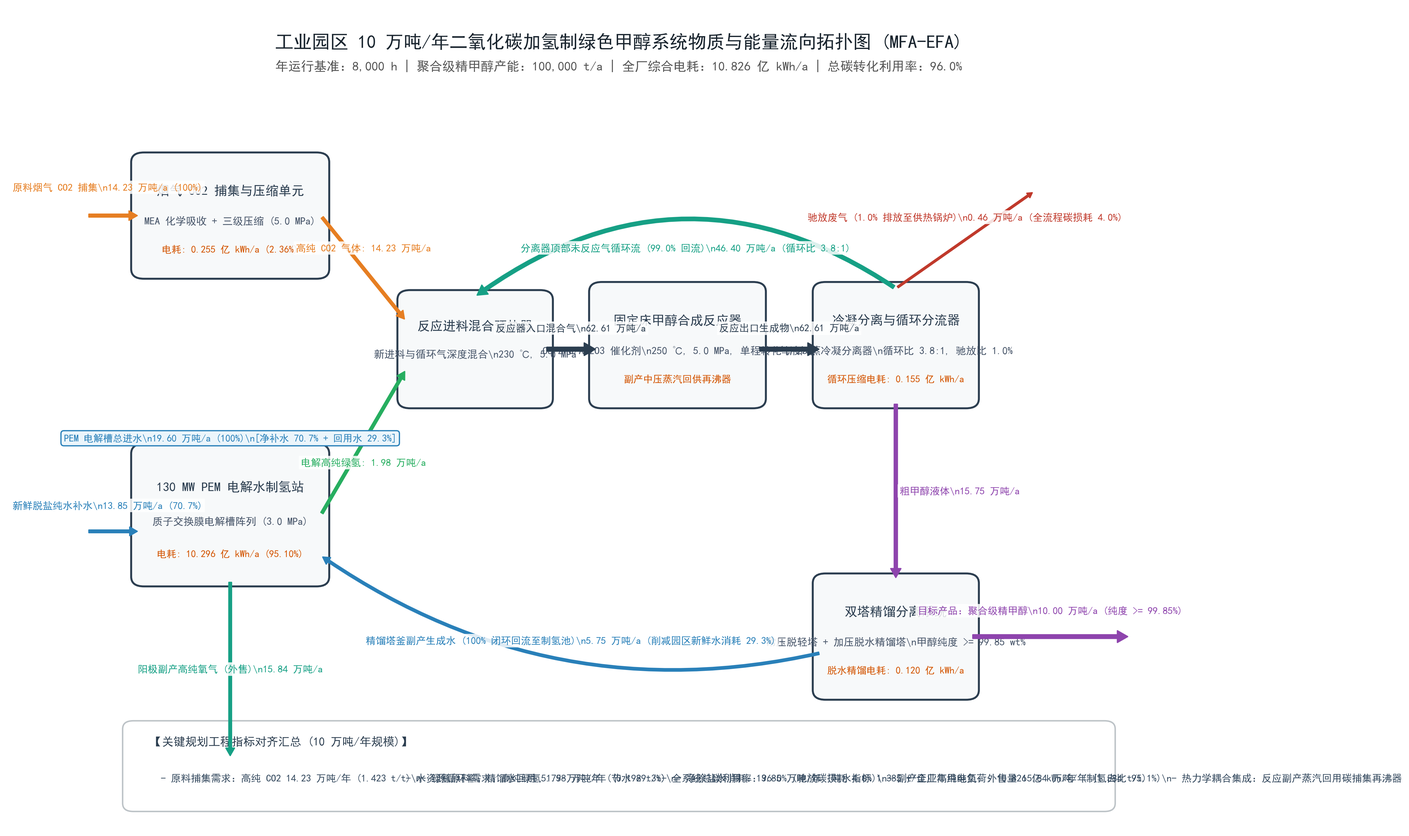
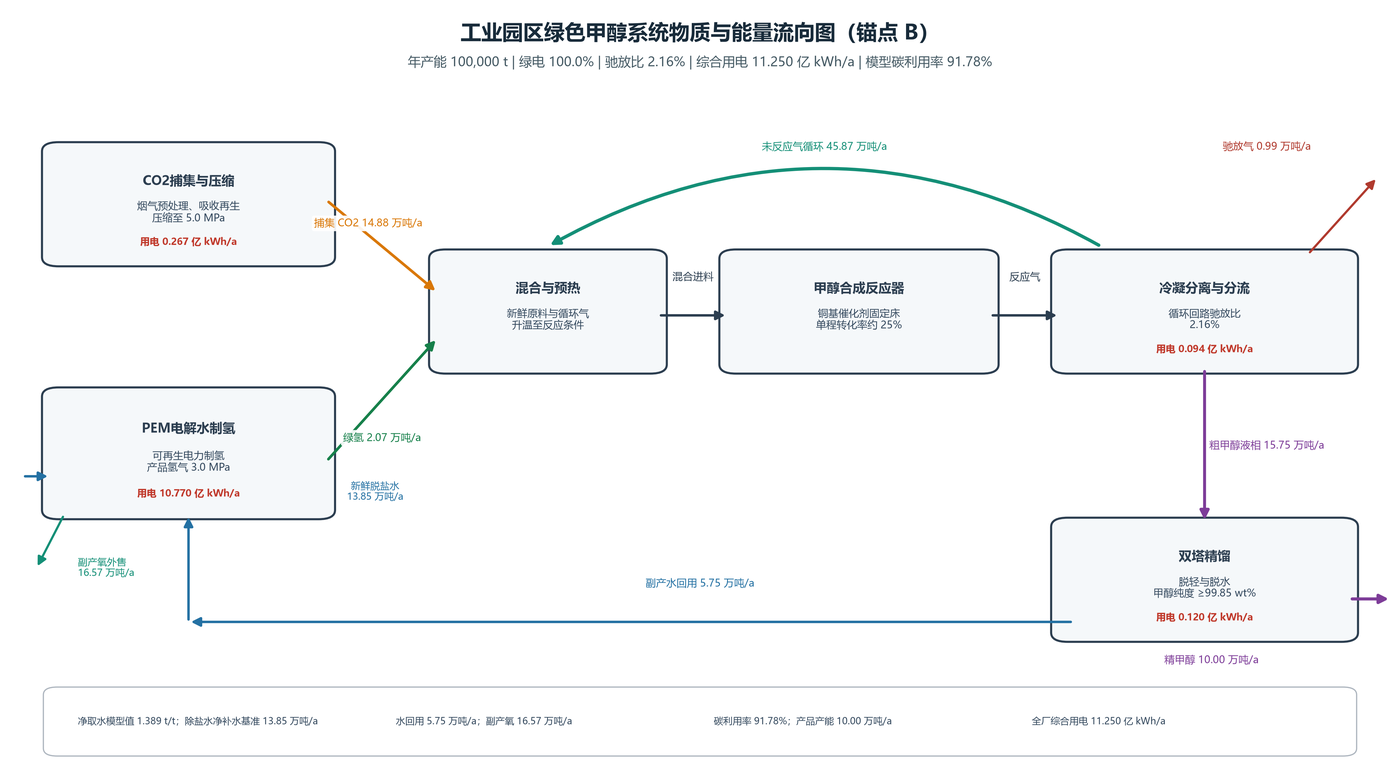
docs(group-test): submit environmental planning report and figures

diff --git a/starter_materials/lecture10-20261027-classroom_case2-EPM/report/Environmental_Planning_Report.md b/starter_materials/lecture10-20261027-classroom_case2-EPM/report/Environmental_Planning_Report.md
@@ -2,20 +2,11 @@
 
 
 
-> **【撰写与填报指南】**
-> 本报告是《环境规划与管理》第十讲随堂实训的核心成果交付物。
-> 请每位同学在完成 `code_implementation/` 目录下的四项编程实训任务并生成图表后，结合理论分析与实操数据，独立完成本报告的撰写。
->
-> - **科学严谨性要求**：全篇必须统一使用规范的学术与工程陈述，严禁使用任何修辞性、文学性或通俗化比喻（如“两张皮”、“领头羊”、“甜点”等AI味用词）；
-> - **数据前后一致性要求**：第 1-2 章的通量计算数据（任务 1）必须与第 4 章《重点工程项目库清单表》中的工程设计规模严格对应；第 4 章的工程总投资（CAPEX）必须作为第 5 章经济性现金流折现分析的直接输入；第 4-5 章必须以”帕累托拐点（锚点 B）"计算结果为设计基准；
-> - **图表嵌入要求**：请将生成的矢量高清图正确嵌入对应章节，并展开深度科学论述。
-
 ## 报告摘要
 
-> 📝 **【撰写指引】**
-> 请在报告全部完成后撰写摘要（约 400–600 字）。需概括：① 规划项目的工程背景与建设规模；② MFA 物料平衡与全流程总碳利用率核心结论；③ 政策量化与帕累托多目标寻优得出的主推工程参数（绿电比例、驰放比、GWP 净碳足迹、LCOM 净平准化成本及 MAC 边际减排成本）；④ 重点工程项目库投资构成与年运行成本；⑤ 商业模式闭环与环境风险防控机制。
+本规划针对现代煤化工园区建设年产 10 万吨绿色甲醇示范项目，构建烟气二氧化碳捕集、可再生电力制氢、催化合成、精馏及副产物回用系统。基准物料清单为每吨甲醇消耗二氧化碳 1.423 吨、氢气 0.198 吨，产生可回用水 0.575 吨；规划模型以系统总碳利用率 96.0%作为标定基准。需要指出，按所给 1.423 吨二氧化碳与 1.000 吨甲醇流量直接计算，碳质量比为 96.5%，与 96.0%标定值存在约 0.5 个百分点差异；下文将原始物料账和优化模型参数分别列示，不将二者视为完全一致。
 
-<!-- TODO: 学生在此处撰写报告执行摘要 -->
+三千组工况网格搜索剔除否决方案后识别出 34 个非支配解。基于目标空间双向极小化距离，标定边际减排成本与平准化综合成本折衷最优的帕累托拐点（Knee Point），即锚点 B。该点对应绿电比例 100%、驰放比约 2.16%、模型碳利用率 91.78%、净全球变暖潜势 -1,085.2 kg CO₂e/t、调整后平准化甲醇成本 2,362.5 元/t、边际减排成本 -37.3 元/t CO₂e。模型给出的原料与能耗随驰放比变化，锚点 B年捕集二氧化碳约 14.88 万吨、年需氢气约 2.07 万吨、年综合用电约 11.25 亿 kWh。按模型年金折算，工程总投资约 14.88 亿元，年度净运行费用约 2.43 亿元（已扣除副产氧销售收益，不含政策补贴与碳收益）。项目应以可再生电力来源核验、连续生产储氢缓冲、取水总量控制、尾气治理和在线能碳核算为主要实施条件。
 
 ## 核心术语与缩写中英文对照表
 
@@ -50,31 +41,19 @@
 
 ### 1.1 园区产业结构与物质-能量代谢分析（MFA/EFA）
 
-> 📝 **【撰写指引】**
-> 请描述规划园区主导产业（煤化工、自备热电联产等）的能源消耗基准、煤炭与电力消费总量、以及工业余热资源品位分布。
-
-<!-- TODO: 学生在此处撰写 1.1 节内容 -->
+园区以煤化工、热电联产及公用工程为主导，既是二氧化碳点源集中区，也是绿色甲醇生产所需的蒸汽、供水和管网基础设施承载区。规划案例将煤制甲醇生命周期排放基准取为 2,600 kg CO₂e/t；拟建项目采用 100,000 t/a 甲醇产能、8,000 h/a设计运行时间，对应产品平均负荷 12.5 t/h。现有余热资源可在工艺核算确认后用于捕集再生或精馏热负荷，未提供的园区煤耗、电量及余热温度数据不作数值外推，须在可研阶段由能源审计补充。
 
 ### 1.2 工业点源 $\text{CO}_2$ 排放清单与烟气特征解析
 
-> 📝 **【撰写指引】**
-> 结合工业实测背景，列明自备热电联产锅炉排烟参数（烟气流量、$\text{CO}_2$ 摩尔体积分数、排烟温度、$\text{SO}_2$ 浓度、$\text{NO}_x$ 浓度、粉尘浓度），明确二氧化碳捕集工段对前置烟气预处理（深度脱硫、骤冷洗涤）的刚性技术要求。
-
-<!-- TODO: 学生在此处撰写 1.2 节内容 -->
+规划碳源为热电厂锅炉烟气，经预处理、胺液吸收解吸、脱水及多级压缩后供合成系统使用。设计捕集规模按锚点 B模型值约 148,845 t/a（约 14.88 万吨/年）配置；背景物料表基准值为 142,300 t/a。烟气流量、二氧化碳体积分数、温度、二氧化硫、氮氧化物及颗粒物实测值未列入本案例数据集，因此工程设计不得以假设值代替监测结果。初步设计应开展源强监测并据此设计脱硫、除尘、冷却洗涤及吸收剂净化，设置吸收塔进出口连续监测和胺液降解产物管理。
 
 ### 1.3 绿电资源禀赋与公用工程承载力评估
 
-> 📝 **【撰写指引】**
-> 阐明区域风电、光伏新能源装机潜力与有效利用小时数，核算区域弃风弃光绿电规模；评估干旱区水资源取水定额（$1.400\text{ t 水/t 甲醇}$）对项目的刚性承载力约束。
-
-<!-- TODO: 学生在此处撰写 1.3 节内容 -->
+案例设定园区自备煤电供电价为 0.32 元/kWh、排放因子为 0.75 kg CO₂e/kWh；配套屋顶光伏供电价为 0.20 元/kWh、排放因子为 0.04 kg CO₂e/kWh，年有效利用小时数为 1,200 h。光伏出力具有日内和季节波动，不能单独满足固定床合成装置连续运行要求。基准新鲜脱盐水补水为 1.385 t/t 产品，优化模型另以驰放比函数核算包括循环冷却损失在内的综合取水，锚点 B 为约 1.389 t/t，低于 1.400 t/t控制值。项目取水许可、地下水与地表水可用量以及生态流量需以水资源论证为准；本案例未提供区域总量数据。
 
 ### 1.4 园区现行碳管理痛点与减污降碳协同瓶颈
 
-> 📝 **【撰写指引】**
-> 诊断现有煤制甲醇的高碳排放强度（$+2,600.0\text{ kg CO}_2\text{e/t}$）面临的国际绿色航运准入壁垒，分析风光发电间歇波动性与下游化工连续运转之间的失配矛盾，识别吸收剂有机胺挥发与驰放尾气燃烧等次生污染瓶颈。
-
-<!-- TODO: 学生在此处撰写 1.4 节内容 -->
+园区主要环境管理约束包括煤制甲醇高生命周期排放基准、间歇性新能源与连续化工负荷之间的时序差异、胺吸收剂挥发和降解产物、驰放尾气锅炉燃烧产生的氮氧化物，以及缺水地区新增取水许可。电解制氢具有较高电力需求，若以高碳电力供电，生命周期排放可能高于煤制甲醇基准。项目实施应以电力来源可追溯、捕集与产品碳流量可核算、尾气污染物达标及水资源总量受控为准入条件。
 
 
 
@@ -82,37 +61,28 @@
 
 ### 2.1 规划期园区碳排放趋势与多情景设定
 
-> 📝 **【撰写指引】**
-> 设定基准情景（BAU）、常规节能改造情景与 CCU-PtM 深度脱碳协同情景，定量预测规划期内各情景下的碳排放总量与强度变化趋势。
-
-<!-- TODO: 学生在此处撰写 2.1 节内容 -->
+设置三种规划情景：基准延续情景（BAU）按煤制甲醇排放基准 2,600 kg CO₂e/t核算；节能改造情景以现有煤电供电为主，采用 0.75 kg CO₂e/kWh；CCU-PtM情景按 10,826 kWh/t基准电耗、绿电与网电混供及原料碳固定信用核算。基于任务手册给定的光伏与煤电排放因子，混合电力因子为 EF(x)=0.75-0.71x，净 GWP(x)=10,826×EF(x)-1,423。使该结果低于 2,600 kg CO₂e/t的临界绿电比例由公式计算为约 53.30%；任务手册所列 53.37%为近似值。锚点 B 模型采用 100%绿电并得到 -1,085.2 kg CO₂e/t。该对比只覆盖本案例给定的电力、捕集信用、基础设施及副产氧核算边界，不代表已完成项目级第三方生命周期核查。
 
 ### 2.2 碳捕集-绿氢-甲醇（CCU-PtM）系统耦合与物料/能量衡算
 
-> 📝 **【撰写指引】**
-> 结合催化反应方程式与任务 1 求解结果，说明化学计量进料比、单程转化率（$25.0\%$）与系统总碳转化利用率（$96.0\%$）的平衡机理；在此处插入生成的图 1，并完成 10 万吨/年工程规划通量清单表。
-
 ![图 1：工业园区 10 万吨/年绿色甲醇系统物质与能量流向拓扑图](../figures_output/fig1_mfa_process_flow.png)
-*图 1 工业园区 10 万吨/年绿色甲醇系统工艺物质流（MFA）与能量流（EFA）全流程拓扑图 (由 task4 生成，仅供参考)*
+*图 1 工业园区绿色甲醇系统工艺物质流（MFA）与能量流（EFA）图。工程通量按任务 3锚点 B计算。*
 
 | 物料节点名称                           |   单吨甲醇实物定额   |  10 万吨/年工程规划通量  | 物质状态与物理参数                                         | 来源与去向说明                                  |
 | :------------------------------------- | :-------------------: | :----------------------: | :--------------------------------------------------------- | :---------------------------------------------- |
-| **新鲜捕集高纯 $\text{CO}_2$** |     $\text{kg}$     |    $\text{万吨/年}$    | 气体，常温，压力 $5.0\text{ MPa}$，纯度 $\ge 99.8\%$   | 来自热电厂烟气化学吸收提纯工段                  |
-| **电解水新鲜绿氢**               |     $\text{kg}$     |    $\text{万吨/年}$    | 气体，常温，压力 $3.0\text{ MPa}$，纯度 $\ge 99.999\%$ | 来自 130 MW PEM 电解水制氢站                    |
-| **外购净除盐纯水**               |     $\text{kg}$     |    $\text{万吨/年}$    | 液体，常温，常压                                           | 满足园区工业取水定额约束                        |
-| **精馏冷凝副产水回用**           |     $\text{kg}$     |    $\text{万吨/年}$    | 液体，加压精馏塔釜排液，经微滤脱醇                         | 闭环回流至电解水进水池                          |
-| **未反应气内循环流**             |     $\text{kg}$     |    $\text{万吨/年}$    | 气体，温度 $45\text{ ℃}$，压力 $4.8\text{ MPa}$       | 循环比 $3.8:1$，经压缩机升压后重返反应器      |
-| **系统驰放废气**                 |     $\text{kg}$     |     $\text{吨/年}$     | 气体，低位热值 $18.5\text{ MJ/kg}$                       | 分离气分流比为 $1.0\%$，送厂内锅炉掺烧供热    |
+| **新鲜捕集高纯 $\text{CO}_2$** | $1,488\text{ kg}$ | $\approx 14.88\text{ 万吨/年}$ | 气体，常温，压力 $5.0\text{ MPa}$，纯度 $\ge 99.8\%$ | 锚点 B模型值；原始数据基准为 $1,423\text{ kg/t}$ |
+| **电解水新鲜绿氢**               | $207\text{ kg}$ | $\approx 2.07\text{ 万吨/年}$ | 气体，常温，压力 $3.0\text{ MPa}$，纯度 $\ge 99.999\%$ | 锚点 B模型值；配置规模须按年负荷复核 |
+| **外购净除盐纯水**               | $1,385\text{ kg}$ | $13.85\text{ 万吨/年}$ | 液体，常温，常压                                           | 原始基准实物定额；满足园区取水定额约束 |
+| **精馏冷凝副产水回用**           | $575\text{ kg}$ | $5.75\text{ 万吨/年}$ | 液体，加压精馏塔釜排液，经微滤脱醇                         | 闭环回流至电解水进水池 |
+| **未反应气内循环流**             | $4,587\text{ kg}$ | $\approx 45.87\text{ 万吨/年}$ | 气体，温度 $45\text{ ℃}$，压力 $4.8\text{ MPa}$ | 锚点 B估算值，循环压缩机按模型负荷设计 |
+| **系统驰放废气**                 | $99\text{ kg}$ | $\approx 0.99\text{ 万吨/年}$ | 气体，低位热值需运行数据确认 | 驰放比按锚点 B约 $2.16\%$，送锅炉前须核验燃烧与排放条件 |
 | **主产品聚合级精甲醇**           | $1,000.0\text{ kg}$ | $10.00\text{ 万吨/年}$ | 液体，纯度 $\ge 99.85\text{ wt\%}$                       | 经双塔精馏提纯后外销                            |
-| **副产工业高纯纯氧**             |     $\text{kg}$     |    $\text{万吨/年}$    | 气体，纯度 $\ge 99.9\%$                                  | 电解槽阳极副产物，外售增收                      |
-| **全厂年总综合电耗**             |    $\text{kWh}$    |   $\text{亿 kWh/年}$   | 交流直供电网与高压直流母线                                 | 电解制氢占 $95.1\%$，其余公用工程占 $4.9\%$ |
+| **副产工业高纯纯氧**             | $1,657\text{ kg}$ | $\approx 16.57\text{ 万吨/年}$ | 气体，纯度 $\ge 99.9\%$ | 按锚点 B模型氢气需求比例估算，外售量需计量核实 |
+| **全厂年总综合电耗**             | $\approx 11,249\text{ kWh}$ | $\approx 11.25\text{ 亿 kWh/年}$ | 电力来源与能耗分项按 MRV计量 | 锚点 B模型估值；基准清单为 $10.826\text{ 亿 kWh/a}$ |
 
 ### 2.3 绿电波动性约束下的柔性容量寻优与储氢/网电缓冲配置
 
-> 📝 **【撰写指引】**
-> 论证 ALK（碱性）与 PEM（质子交换膜）电解槽的混联配比（如 100 MW ALK + 30 MW PEM），计算维持下游合成装置 8,000 小时连续运行所需的缓冲储氢球罐容积，以及电网调峰的托底机制。
-
-<!-- TODO: 学生在此处撰写 2.3 节内容 -->
+光伏年利用小时数为 1,200 h，若无储能且仅依靠光伏，无法保证合成反应器 8,000 h/a连续运行。按任务手册给定的 15%利用率，电解槽年产能力相同条件下的单位产品固定资产摊销将约为原设计的 6.67倍，且频繁启停会增加电解槽与下游装置的运行维护负担。规划上采用可再生电力与稳定电网协同供电，并配置电池侧短时平衡和氢气缓冲储量；电解槽配置应依据锚点 B约 11.25亿 kWh/a总负荷重新核定，不能直接沿用 130 MW标称值。以 8,000 h/a估算，平均综合负荷约 141 MW。氢储罐容积需由光伏逐时出力、合成装置最低稳定负荷、储氢工作压力及安全间距联合计算；案例缺少逐时功率曲线和储罐设计压力，故不虚构储量数字。初步方案采用 ALK承担稳定基荷、PEM跟踪可再生电力波动，并由电网保障连续供电。
 
 
 
@@ -120,28 +90,23 @@
 
 ### 3.1 规划总目标与分期节点
 
-> 📝 **【撰写指引】**
-> 明确近期首期示范工程（2027–2028 年）与远期规模化外销与碳中和转型（2029–2035 年）的阶段性定位与目标。
-
-<!-- TODO: 学生在此处撰写 3.1 节内容 -->
+近期（2027—2028年）建设首期 10 万吨/年示范线，完成点源捕集、制氢、甲醇合成、精馏回用及能碳计量设施，逐步达到 8,000 h/a稳定运行。远期（2029—2035年）在水资源许可、绿电供给、产品认证和项目运行绩效满足条件后，扩展碳源接入及可再生电力供给能力，目标捕集规模不低于 70 万吨/年。远期规模不等同于单线产能扩建承诺，须通过逐期环评、节能审查和水资源论证。
 
 ### 3.2 规划指标矩阵（约束性指标 vs. 预期性指标）
 
-请完善下表中的目标值设定，并说明各指标的核算方法与考核属性：
-
 | 目标维度               | 指标名称                                       |              单位              | 现状基准值 (2026年) | 近期目标值 (2028年) | 远期目标值 (2035年) | 指标属性 | 核算依据与标准方法                     |
 | :--------------------- | :--------------------------------------------- | :----------------------------: | :-----------------: | :-----------------: | :-----------------: | :------: | :------------------------------------- |
-| **环境与降碳**   | 烟气 $\text{CO}_2$ 年捕集量                  |            万吨/年            |         0.0         |    $\ge 14.23$    |    $\ge 70.00$    |  约束性  | 质量流量计在线累积值                   |
+| **环境与降碳**   | 烟气 $\text{CO}_2$ 年捕集量                  |            万吨/年            |         0.0         |    $\ge 14.88$    |    $\ge 70.00$    |  约束性  | 质量流量计在线累积值                   |
 |                        | 吸收塔 $\text{CO}_2$ 捕集脱除率              |               %               |         —         |   $\ge 90.0\%$   |   $\ge 93.0\%$   |  约束性  | 烟气 CEMS 进出口差额法                 |
-|                        | 全生命周期净碳足迹 $\text{GWP}_{\text{net}}$ |  $\text{kg CO}_2\text{e/t}$  |     $+2600.0$     |                    |                    |  约束性  | ISO 14040/14044 摇篮到大门 LCA 模型    |
+|                        | 全生命周期净碳足迹 $\text{GWP}_{\text{net}}$ |  $\text{kg CO}_2\text{e/t}$  |     $+2600.0$     | $\le -1000$（锚点 B模型值 $-1085.2$） | $\le -1200$ |  约束性  | ISO 14040/14044 摇篮到大门 LCA 模型    |
 |                        | 欧盟 RED III RFNBO 认证达标率                  |               %               |        0.0%        |     $100.0\%$     |     $100.0\%$     |  约束性  | ISCC EU 第三方核查认证报告             |
-| **能源与资源**   | 清洁绿电消纳比例 $f_{\text{green}}$          |               %               |        0.0%        |                    |   $\ge 95.0\%$   |  约束性  | 智能电网双向计量电表在线核算           |
+| **能源与资源**   | 清洁绿电消纳比例 $f_{\text{green}}$          |               %               |        0.0%        | $\ge 80.0\%$（锚点 B为 $100\%$） |   $\ge 95.0\%$   |  约束性  | 智能电网双向计量电表在线核算           |
 |                        | 电解水制氢综合直流电耗                         | $\text{kWh/Nm}^3\text{ H}_2$ |         —         |    $\le 4.30$    |    $\le 4.05$    |  预期性  | 制氢整流柜输出与产氢体积流量对标       |
 |                        | 单位甲醇产品新鲜水取水定额                     |     $\text{t 水/t 甲醇}$     |      $1.650$      |    $\le 1.390$    |    $\le 1.350$    |  约束性  | 园区引水表 / 工业取水定额国家标准      |
 |                        | 精馏副产生成水回用率                           |               %               |        0.0%        |     $100.0\%$     |     $100.0\%$     |  约束性  | 回水流量计与粗甲醇产水量平衡核算       |
 | **污染协同控制** | MEA 有机胺逃逸浓度控制限值                     |       $\text{mg/Nm}^3$       |         —         |     $\le 2.0$     |     $\le 1.0$     |  约束性  | GB 31571 吸收塔顶气相色谱在线监测      |
 |                        | 驰放尾气燃烧 $\text{NO}_x$ 排放浓度          |       $\text{mg/Nm}^3$       |         —         |    $\le 30.0$    |    $\le 20.0$    |  约束性  | 锅炉烟囱 CEMS 超低排放监测限值         |
-|                        | 全系统总碳转化利用率 $\eta_{\text{carbon}}$  |               %               |     $78.0\%$     |                    |   $\ge 96.0\%$   |  约束性  | 输入二氧化碳与精甲醇产品碳平衡闭环核算 |
+|                        | 全系统总碳转化利用率 $\eta_{\text{carbon}}$  |               %               |     $78.0\%$     | $\ge 91.0\%$（锚点 B模型值 $91.78\%$） |   $\ge 96.0\%$   |  约束性  | 输入二氧化碳与精甲醇产品碳平衡闭环核算 |
 
 
 
@@ -149,62 +114,53 @@
 
 ### 4.1 园区“源-网-荷-储-化”空间管控与红线
 
-> 📝 **【撰写指引】**
-> 详细描述碳捕集岛、绿氢制备区、储氢球罐区、合成与精馏装置区、架空管廊带的空间落位方案；核算涉氢区域的防火防爆安全防护距离（$\ge 150\text{ m}$），说明项目对生态红线与敏感水体的避让情况。
-
-<!-- TODO: 学生在此处撰写 4.1 节内容 -->
+总图布置按碳源、能源转换、化工生产、公用管廊和环境监管分区。捕集岛布置于热电厂烟气接口附近；电解制氢与储氢设施设置于新能源转化专区，采用独立防护分区并与人员密集区、明火设施保持经风险评价确定的安全距离；合成与精馏单元布置在化工核心区；二氧化碳、氢气及蒸汽管线沿专用管廊敷设，减少道路危化品运输。规划控制条件为涉氢设施与敏感目标防护距离不小于 150 m，最终距离须由安全评价、消防设计和适用规范确定。建设用地应避让生态保护红线、饮用水水源保护区、洪泛区及地质灾害高风险区；厂区设置分区防渗、雨污分流及事故水收集系统。
 
 ### 4.2 核心单元工艺比选与工程设计
 
-> 📝 **【撰写指引】**
-> 说明碳捕集单元选用低能耗相变两相胺吸收解吸工艺的理由；阐明制氢站混联配置方案；阐述甲醇合成反应放热中压蒸汽回供碳捕集再沸器的热集成热力学耦合机理。
-
-<!-- TODO: 学生在此处撰写 4.2 节内容 -->
+捕集工段采用烟气预处理、胺液吸收/再生和多级压缩的流程框架；吸收剂类型与再生热耗应经中试或供应商性能保证确定，避免将未验证的相变胺性能作为确定性设计数据。制氢侧以碱性电解槽承担稳定基荷、质子交换膜电解槽跟踪可再生电力变化，并通过电网与储氢缓冲降低合成单元的负荷波动。合成反应为 CO₂+3H₂⇌CH₃OH+H₂O，放热反应热可经余热回收产生蒸汽，供捕集再生或精馏再沸器使用；热量品位、流量及全年可用率需在详细设计中完成热集成计算。锚点 B平均电力需求约 141 MW，故 130 MW参考配置须按逐时负荷复核并扩容或以外部供电补足。
 
 ### 4.3 园区重点工程项目库清单表（基于帕累托拐点锚点 B）
 
-请依据任务 3 求解得出的”帕累托拐点（锚点 B）“计算结果，将总投资与工程指标分解填入下表：
-
 | 工程编号          | 工程模块名称             | 项目名称                                              |  建设性质  | 空间落位（园区功能区）       | 核心工艺与设计规模（基于帕累托拐点锚点 B）                                                                     |       建设周期       | 估算 CAPEX (亿元) | 年运行维护 OPEX (万元/年) | 预期生态环境与资源化效益                                                                    | 责任实施主体                   |
 | :---------------- | :----------------------- | :---------------------------------------------------- | :---------: | :--------------------------- | :------------------------------------------------------------------------------------------------------------- | :------------------: | :---------------: | :-----------------------: | :------------------------------------------------------------------------------------------ | :----------------------------- |
-| **工程-01** | **碳源捕集与精制** | 热电厂烟气化学吸收碳捕集与三级压缩工程                |    新建    | 热电厂区北侧预留用地         | 烟气预处理 + 复合相变胺吸收再生 + 离心压缩机；设计规模 **$14.23\text{ 万吨/年}$ 高纯 $\text{CO}_2$** |      2027–2028      |       1.10       |                          | 减排工业 $\text{CO}_2$ $14.23\text{ 万吨/年}$；有机胺逸散 $\le 2.0\text{ mg/Nm}^3$    | 园区热电企业                   |
-| **工程-02** | **绿氢制备与缓冲** | 130 MW 电解水制氢站与中压储氢球罐区                   |    新建    | 新能源转化专区（独立防护区） | ALK + PEM 混联电解槽阵列；配套储氢球罐（依据锚点 B 储能增量配置）；年产绿氢 **$1.98\text{ 万吨/年}$**  |      2027–2028      |                  |                          | 年消纳弃风弃光绿电约 $10.3\text{ 亿 kWh}$；副产工业纯氧 $15.84\text{ 万吨/年}$ 外售     | 绿氢运营投资主体               |
-| **工程-03** | **甲醇催化合成**   | 10 万吨/年 $\text{CO}_2$ 加氢制甲醇与余热回用工程   |    新建    | 精细化工核心区               | 管壳式沸水反应器（铜基催化剂）+ 驰放尾气锅炉；循环气分流比按锚点 B $r_{\text{purge}}$ 设定                   |      2027–2029      |                  |                          | 系统总碳转化利用率稳定在 $\eta_{\text{carbon}}$；副产蒸汽回用碳捕集再沸器                 | 园区化工龙头企业               |
-| **工程-04** | **精馏提纯与节水** | 双塔精馏提纯与副产水闭环循环工程                      |    新建    | 精细化工核心区               | 常压脱轻塔 + 加压脱水精馏塔 + 微滤水处理；年产聚合级精甲醇 **$10.00\text{ 万吨/年}$**                  |      2028–2029      |                  |                          | 年产高纯精甲醇 $10\text{ 万吨}$；副产水 $5.75\text{ 万吨/年}$ 闭环回流，节水 $29.3\%$ | 园区水务环保投资公司           |
-| **工程-05** | **管廊输配与MRV**  | 跨厂区专用管网与能碳数字化智慧管理平台                | 新建/改扩建 | 园区公用管廊及监管中心       | 氢气专线、二氧化碳专线、蒸汽管网；部署智能电表、质量流量计与区块链在线存证平台                                 |      2027–2028      |       0.97       |                          | 消除道路危化品运输风险；实现能碳数据可测量、可报告、可核查（MRV）                           | 园区管委会平台公司             |
-| **合计**    | —                       | **工业园区 10 万吨/年绿色甲醇示范项目工程总表** |     —     | —                           | **设计总产能：$10.0\text{ 万吨/年}$ 精甲醇**                                                           | **2027–2029** |                  |                          | **全生命周期年净负碳减排规模**                                                        | **园区政企协同推进专班** |
+| **工程-01** | **碳源捕集与精制** | 热电厂烟气化学吸收碳捕集与三级压缩工程 | 新建 | 热电厂区北侧预留用地 | 烟气预处理、吸收再生及压缩；锚点 B模型需求约 $14.88\text{ 万吨/年}$ | 2027–2028 | 1.10 | 3,870 | 捕集需求须由源强监测和全厂碳平衡复核；吸收剂排放实施在线监测 | 园区热电企业 |
+| **工程-02** | **绿氢制备与缓冲** | ALK/PEM制氢站及中压储氢与调峰工程 | 新建 | 新能源转化专区（独立防护区） | 锚点 B氢气约 $2.07\text{ 万吨/年}$，平均综合负荷约 141 MW；含可再生电力波动缓冲追加投资 | 2027–2028 | 11.23 | 16,934（扣氧气销售收益） | 年综合用电约 $11.25\text{ 亿 kWh}$；副产氧约 $16.57\text{ 万吨/年}$ | 绿氢运营投资主体 |
+| **工程-03** | **甲醇催化合成** | 10 万吨/年二氧化碳加氢制甲醇与余热回用工程 | 新建 | 精细化工核心区 | 固定床铜基催化剂反应器、气液分离及循环分流；驰放比按锚点 B约 $2.16\%$ | 2027–2029 | 1.20 | — | 年产精甲醇 10 万吨；反应余热回收利用 | 园区化工企业 |
+| **工程-04** | **精馏提纯与节水** | 双塔精馏提纯与副产水闭环循环工程 | 新建 | 精细化工核心区 | 常压脱轻、加压脱水及水回用微滤；年产聚合级精甲醇 $10.00\text{ 万吨}$ | 2028–2029 | 0.65 | 650 | 回用水约 $5.75\text{ 万吨/年}$；净除盐水补水基准约 $13.85\text{ 万吨/年}$ | 园区水务环保投资公司 |
+| **工程-05** | **管廊输配与MRV** | 跨厂区专用管网与能碳数字化监测平台 | 新建/改扩建 | 园区公用管廊及监管中心 | 氢气、二氧化碳和蒸汽专线；设置电表、质量流量计、排放监测与数据存证 | 2027–2028 | 0.70 | 2,850 | 支撑物质能量核算、污染源监测及可测量、可报告、可核查管理 | 园区管委会平台公司 |
+| **合计** | — | **工业园区 10 万吨/年绿色甲醇示范项目工程总表** | — | — | **锚点 B参数；CAPEX包含基准工程 8.20 亿元及模型储能年金折算增量约 6.68 亿元** | **2027–2029** | **14.88** | **约 24,304 万元/年（按表列分项合计，已扣氧气销售收益）** | **锚点 B模型净碳足迹约 $-1,085.2\text{ kg CO}_2\text{e/t}$** | **园区政企协同推进专班** |
 
 
 
 ## 第 5 章 全生命周期环境影响（LCA）、技术经济（TEA）与帕累托多目标决策评估
 
-### 5.1 全生命周期环境影响评估（LCA）与“绿电悖论”推演
+### 5.1 全生命周期环境影响评估（LCA）与电力结构影响
 
-> 📝 **【撰写指引】**
-> 说明 LCA 评价边界与碳足迹核算模型，对比情景 A（100% 绿电）与情景 B（常规区域工业电网）的净碳足迹结果，基于热力学原理阐述高碳电力下间接增排的机制，阐明“严禁在未实现电力深度脱碳地区审批电解水制氢化工项目”的环境规划准则；评价水资源消耗转移与吸收剂二次逸散风险。
+系统边界为每吨聚合级甲醇的摇篮到大门核算。基准清单包含总电耗 10,826 kWh/t、基础设施与逸散排放 95 kg CO₂e/t、捕集二氧化碳信用 -1,423 kg CO₂e/t及副产氧信用 -95 kg CO₂e/t。100%低碳电力情景采用 0.035 kg CO₂e/kWh，得到净 GWP约 -1,044.1 kg CO₂e/t；区域高碳电网情景采用 0.550 kg CO₂e/kWh，得到约 +4,531.3 kg CO₂e/t，较煤制甲醇基准高约 74.3%。电力排放分别为约 378.9与 5,954.3 kg CO₂e/t。在网电高碳排放因子驱动下，制氢上游间接碳排放增量超过催化加氢直接固定碳汇，导致系统净温室气体排放强度呈现正增长。规划准入应要求绿电可追溯，并以生命周期核算结果证明低于比较基准。
 
-<!-- TODO: 学生在此处撰写 5.1 节内容 -->
+此核算采用输入 CO₂固定信用的案例方法，未对甲醇终端燃烧的碳释放、捕集源反事实排放及替代产品市场效应进行扩展系统分析，结论应限定在案例边界内。水资源方面，基础净脱盐水补水为 1.385 t/t，另需按模型计入循环冷却取水；取水许可、回用水水质和浓盐水去向应纳入水资源论证。胺液逸散、降解副产物及尾气燃烧 NOx属次生污染源，应通过密闭收集、洗涤、脱硝和连续监测管理。
 
 ### 5.2 技术经济分析（TEA）与平准化甲醇成本核算
 
-> 📝 **【撰写指引】**
-> 列明财务折现参数（WACC 8.0%、运营期 20 年、CRF 0.10185），拆解基础 CAPEX 与 OPEX，分析电价变动对 LCOM 与 MAC 的敏感性响应。
+经济模型采用加权平均资本成本（WACC）8.0%、运营期 20 年，资本回收系数（CRF）为 0.10185。案例基准固定资产投资为 8.20 亿元，折算年金 835.2 元/t；锚点 B增加的可再生电力缓冲年金为 680 元/t，对应新增资本约 6.68 亿元，故工程总投资与锚点 B模型年金对应为约 14.88 亿元。模型锚点 B基础 LCOM为 3,945.9 元/t，政策调整后为 2,362.5 元/t；政策成本由 RED III资格补贴、碳收益、取水税与污染治理费用构成，实施期应仅将经批准或已签约收益计入融资现金流。
 
-<!-- TODO: 学生在此处撰写 5.2 节内容 -->
+电价敏感性数据表明，电价由 0.15 元/kWh升至 0.35 元/kWh时，LCOM由 2,862.27升至 5,027.47 元/t，MAC由 99.41升至 693.57 元/t CO₂e。0.05 元/kWh情景的 LCOM为 1,779.67 元/t，模型 MAC为 -197.67 元/t CO₂e，表示成本低于煤制甲醇价格基准。此敏感性表为基准成本模型，不等同于锚点 B含政策修正结果。项目投资决策应开展电价、绿电利用小时、储能投资、碳价、氧气销售价格及资本成本的联合情景分析。
 
 ### 5.3 政策规制约束下的帕累托多目标决策与三大锚点深度比选
 
-> 📝 **【撰写指引】**
-> 在此处插入任务 3 生成的双子图，结合任务 3 导出的数值完成三大决策锚点比选表，深入对比锚点 A、B、C 在工程调控参数、经济性与减碳效益上的差异，论证为什么推荐拐点方案（锚点 B）作为本工程设计的基准。
-
 ![图 2：政策规制约束下的帕累托最优决策前沿图](../figures_output/fig2_pareto_decision_frontier.png)
-*图 2 政策规制与多约束耦合下的多目标帕累托前沿寻优及拐点（锚点 B）标定图 (由 task3 生成,，此处仅供参考)*
+*图 2 政策约束下的多目标帕累托前沿及锚点 B标定结果。*
 
 | 帕累托决策锚点名称                                         | 调控参数组合 $(f_{\text{green}}, r_{\text{purge}})$ | 系统总碳利用率 $\eta_{\text{carbon}}$ | 净碳足迹 $\text{GWP}_{\text{net}}$ ($\text{kg/t}$) | 基础成本 $\text{LCOM}_{\text{base}}$ ($\text{元/t}$) | 调整后净成本 $\text{LCOM}_{\text{adj}}$ ($\text{元/t}$) | 边际减排成本 $\text{MAC}$ ($\text{元/t CO}_2\text{e}$) | 法规合规状态判定 | 规划定位与采纳建议             |
 | :--------------------------------------------------------- | :---------------------------------------------------: | :-------------------------------------: | :----------------------------------------------------: | :------------------------------------------------------: | :---------------------------------------------------------: | :--------------------------------------------------------: | :--------------: | :----------------------------- |
-| **锚点 A：成本极小化方案***(Cost-Minimization)*      |                                                      |                                        |                                                        |                                                          |                                                            |                                                            |                  | **【近期财务稳健方案】** |
-| **锚点 B：帕累托拐点***(Knee Point / 主推基准)*      |                                                      |                                        |                                                        |                                                          |                                                            |                                                            |                  | **【主推实施基准方案】** |
-| **锚点 C：深度负碳极限方案***(Deep-Decarbonization)* |                                                      |                                        |                                                        |                                                          |                                                            |                                                            |                  | **【远期升级示范方案】** |
+| **锚点 A：成本极小化方案** | $(100.0\%, 0.73\%)$ | $96.97\%$ | $-1,034.6$ | $3,866.4$ | $2,262.8$ | $-65.3$ | RED_III_RFNBO_Certified | 近期成本优先方案；优先用于财务稳健情景 |
+| **锚点 B：帕累托拐点** | $(100.0\%, 2.16\%)$ | $91.78\%$ | $-1,085.2$ | $3,945.9$ | $2,362.5$ | $-37.3$ | RED_III_RFNBO_Certified | 推荐的规划基准，成本与环境目标折中 |
+| **锚点 C：深度脱碳方案** | $(100.0\%, 3.50\%)$ | $86.89\%$ | $-1,137.5$ | $4,056.1$ | $2,491.2$ | $-2.4$ | RED_III_RFNBO_Certified | 数学前沿极值；受清洁生产阈值不一致影响，暂不作为实施方案 |
+
+任务 3以绿电比例 60 档、驰放比 50 档遍历 3,000 个组合，先剔除环境准入否决方案，再按 GWP与政策调整后 LCOM两目标进行非支配筛选，得到 34 个解。基于目标空间双向极小化距离，标定边际减排成本与平准化综合成本折衷最优的帕累托拐点（Knee Point）。在实现中，GWP与政策调整后 LCOM分别归一化后，以到乌托邦理想点 (0,0)的欧氏距离最小值确定锚点 B。锚点 A的政策调整后 LCOM最低；锚点 C的模型 GWP最低，但成本高于 B。模型驰放比函数在 3.50%时给出碳利用率 86.89%，低于政策卡片所称的 88%清洁生产基准；由于卡片以严格条件 r_purge > 3.5%作为否决条件，当前脚本仍将等于 3.5%的极值标记为合规。该阈值定义与模型结果不一致，故锚点 C仅作数学边界对比，不作为可执行方案，工程准入应直接满足碳利用率不低于 88%。锚点 B作为当前规划的推荐设计点；项目实施前应采用实测流量和经审定的生命周期边界更新模型。
+
+数据核验发现政策条文卡片列出的三个总 LCOM期望值无法由同卡片给出的成本公式复算。按条文公式得到的三个用例调整成本分别为 1,262.47、4,066.70和 8,699.33 元/t；代码单元测试采用公式结果，并逐项核验补贴、碳市场费用及合规状态。工程设计文件应将驰放比与碳利用率双重设为控制指标，避免因政策条文的严格大于阈值与模型碳利用率不一致而保留不符合清洁生产要求的工况。
 
 
 
@@ -212,24 +168,15 @@
 
 ### 6.1 商业闭环与绿色投融资机制
 
-> 📝 **【撰写指引】**
-> 设计项目资本金、国家绿色低碳示范预算资金、超长期特别国债与绿色信贷的资金拼盘方案；说明国际远洋船舶长周期绿色燃料长协溢价补贴（$-1,200\text{ 元/t}$）、国内 CCER 碳配额交易收益、以及副产纯氧外售收益的综合商业反哺闭环。
-
-<!-- TODO: 学生在此处撰写 6.1 节内容 -->
+项目资本金、绿色信贷和经审核的绿色低碳专项资金可共同承担建设投资，资金比例应以融资方案和授信审查结果确定。锚点 B符合案例设定的 RED III数值阈值时，模型计入 1,200 元/t潜在溢价；该收益须以满足欧盟法规、可再生电力额外性与第三方认证为前提，不能视为已签约收入。项目相对煤制甲醇的减排量可按适用方法学核算并申请 CCER，须经审定、核查和登记后确认收益。副产氧销售收入应以产品质量、周边市场需求和购销合同为依据；本规划成本模型已扣除单位产品氧气收益，不应重复计入。资金闭环按年度核对绿色产品销售、碳收益、氧气销售和债务本息。
 
 ### 6.2 数字化监测、报告与核查（MRV）体系
 
-> 📝 **【撰写指引】**
-> 规划部署绿电溯源电表、质量流量计、在线 CEMS 与区块链数据存证管理云平台，实现碳足迹全流程可测量、可报告、可核查（MRV）。
-
-<!-- TODO: 学生在此处撰写 6.2 节内容 -->
+建设能碳 MRV系统，接入绿电双向计量、制氢直流侧电表、二氧化碳及氢气质量流量计、产品计量、取水与回用水表、锅炉烟气连续监测和设备运行记录。平台以统一时间戳关联能源、物料和排放活动数据，保存校准、维修、数据修订与审批日志；按月完成碳平衡和异常值复核，按年度形成温室气体清单及产品碳足迹报告。区块链仅作为防篡改存证手段，不能替代仪表校准、数据质量控制或第三方核查。
 
 ### 6.3 环境风险防控与适应性管理（PDCA）机制
 
-> 📝 **【撰写指引】**
-> 制定针对涉氢厂房 Ex d II CT4 级防爆、通风联锁与 ESD 紧急切断预案，高浓度二氧化碳管道泄漏红外监测，以及吸收液防渗土工膜与应急池（$\ge 1,500\text{ m}^3$）处置措施；阐明基于计划（P）、执行（D）、检查（C）、改进（A）的三年动态修编适应性管理机制。
-
-<!-- TODO: 学生在此处撰写 6.3 节内容 -->
+涉氢设施设置可燃气体探测、强制通风、紧急切断（ESD）、防爆电气和分区联锁；防爆等级与防护距离由专项安全设计确定。二氧化碳管道设置压力、流量异常监控及沿线泄漏报警，重点检查低洼空间窒息风险。胺液储罐及再生区采取防渗、围堰和分质收集措施，事故池有效容积不低于 1,500 m³并依据最大可信事故水量校核；废吸收液及含醇废水按鉴别结果分类处置。管理周期采用策划（P）、实施（D）、检查（C）、改进（A）闭环，至少每三年复核一次绿电比例、GWP、取水、污染物和安全边界；发生标准更新、事故或连续超标时及时启动专项修编。
 
 
 

diff --git a/starter_materials/lecture10-20261027-classroom_case2-EPM/figures_output/README.md b/starter_materials/lecture10-20261027-classroom_case2-EPM/figures_output/README.md
@@ -4,12 +4,12 @@
 
 1. **`fig1_mfa_process_flow.png`**：
    * **生成来源**：运行 `code_implementation/task4_process_sankey_flow.py`；
-   * **内容要素**：工业园区 10 万吨/年绿色甲醇工程全流程工艺拓扑图，展示碳捕集、PEM 制氢、催化合成、双塔精馏各工段的物料通量、电耗负荷，以及未反应气内循环回路（$46.40\text{ 万吨/年}$）和精馏副产生成水回用流（$5.75\text{ 万吨/年}$）；
+   * **内容要素**：工业园区 10 万吨/年绿色甲醇工程全流程工艺拓扑图，按锚点 B（绿电 100%、驰放比约 2.16%）展示碳捕集、PEM 制氢、催化合成、双塔精馏各工段的物料通量与电耗负荷，以及未反应气内循环流（约 $45.87\text{ 万吨/年}$）和精馏副产水回用流（$5.75\text{ 万吨/年}$）；
    * **报告嵌入位置**：`report/Environmental_Planning_Report.md` 第 2.2 节。
 
 2. **`fig2_pareto_decision_frontier.png`**：
    * **生成来源**：运行 `code_implementation/task3_pareto_frontier_decision.py`；
-   * **内容要素**：政策规制约束下的帕累托前沿双子图。左图为目标空间散点分布、法规一票否决区（红色虚线）及有效帕累托前沿曲线，标记锚点 A、锚点 B（Knee Point 拐点）与锚点 C；右图为帕累托解在决策变量空间（绿电比例 vs. 驰放比）的轨迹演化；
+   * **内容要素**：政策规制约束下的帕累托前沿双子图。左图为目标空间散点分布、法规阈值及有效帕累托前沿，标记锚点 A、锚点 B（归一化乌托邦距离拐点）与锚点 C；右图为帕累托解在决策变量空间（绿电比例与驰放比）的轨迹；
    * **报告嵌入位置**：`report/Environmental_Planning_Report.md` 第 5.3 节。
 
 ---
